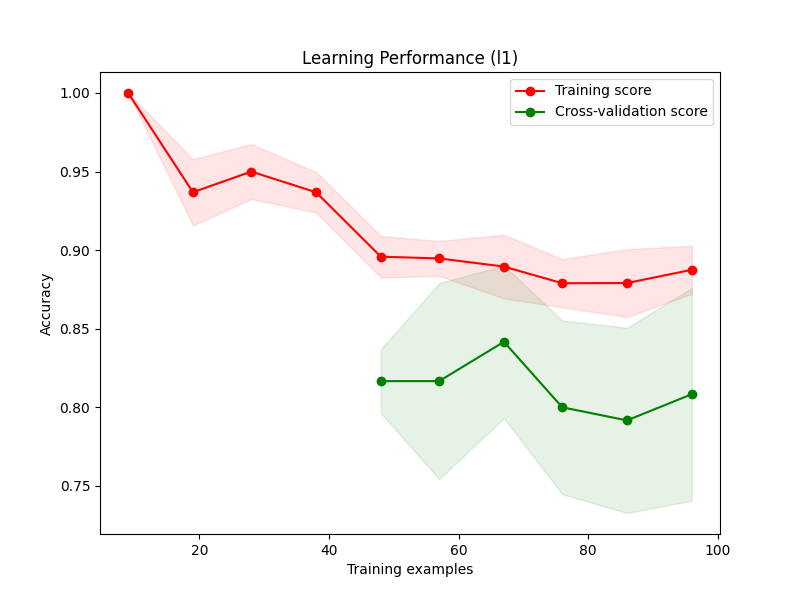
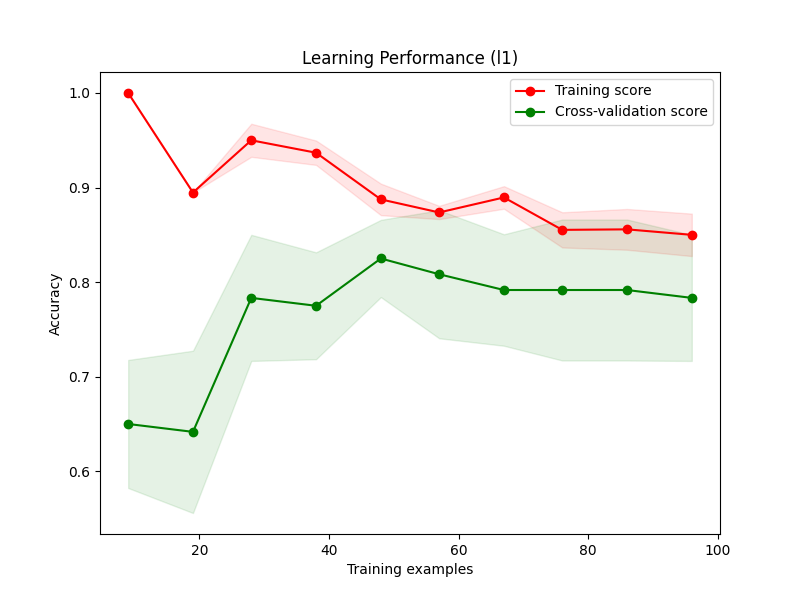
Refactor data preprocessing and model training; streamline pipelines, enhance feature handling, and implement learning curves

diff --git a/courswork/task3.py b/courswork/task3.py
@@ -1,101 +1,109 @@
 import pandas as pd
-import matplotlib.pyplot as plt
-from sklearn.ensemble import StackingClassifier
-from sklearn.metrics import classification_report, precision_recall_curve, auc
-from sklearn.model_selection import train_test_split, StratifiedKFold
-from sklearn.linear_model import LogisticRegression
-from sklearn.preprocessing import OneHotEncoder, StandardScaler
-from sklearn.neighbors import KNeighborsClassifier
-from sklearn.tree import DecisionTreeClassifier
-from sklearn.pipeline import make_pipeline
-from sklearn.compose import ColumnTransformer
 import numpy as np
+from sklearn.model_selection import train_test_split, StratifiedKFold, learning_curve
+from sklearn.pipeline import Pipeline
+from sklearn.compose import ColumnTransformer
+from sklearn.preprocessing import OneHotEncoder, StandardScaler
+from sklearn.impute import SimpleImputer
+from sklearn.ensemble import RandomForestClassifier
+from sklearn.metrics import classification_report, confusion_matrix, precision_recall_curve, auc
+import matplotlib.pyplot as plt
+import seaborn as sns
+import shap
 
-appointment = pd.read_csv("data/appointments/appointments.txt", sep=r"\s+")
+# Load data
+appointments = pd.read_csv("data/appointments/appointments.txt", sep=r"\s+")
 participants = pd.read_csv("data/appointments/participants.txt", sep=r"\s+")
 
-data = pd.merge(appointment, participants, on="participant")
-data = data[data["count"] > 5]
+# Merge datasets
+data = appointments.merge(participants, on="participant")
 
-categorical_cols = [
-    "participant",
-    "sms_received",
-    "day",
-    "month",
-    "weekday",
-    "sex",
-    "hipertension",
-    "diabetes",
-    "alcoholism",
-]
+# Filter patients with at least 5 appointments
+data = data[data["count"] >= 5]
 
-numerical_cols = ["advance", "age", "count"]
+# Target and features
+X = data.drop(columns=["status", "participant"])
+y = (data["status"] == "no-show").astype(int)
 
-categorical_transformer = OneHotEncoder(handle_unknown='ignore')
-numerical_transformer = StandardScaler()
+# Preprocessing pipeline
+numeric_features = ["age", "advance", "day", "month"]
+categorical_features = ["sms_received", "sex", "hipertension", "diabetes", "alcoholism", "weekday"]
+
+numeric_transformer = Pipeline(steps=[
+    ("imputer", SimpleImputer(strategy="mean")),
+    ("scaler", StandardScaler())
+])
+
+categorical_transformer = Pipeline(steps=[
+    ("imputer", SimpleImputer(strategy="most_frequent")),
+    ("onehot", OneHotEncoder(handle_unknown="ignore"))
+])
 
 preprocessor = ColumnTransformer(
     transformers=[
-        ("num", numerical_transformer, numerical_cols),
-        ("cat", categorical_transformer, categorical_cols),
-    ],
-    remainder="passthrough",
+        ("num", numeric_transformer, numeric_features),
+        ("cat", categorical_transformer, categorical_features)
+    ]
 )
 
-logistic_regression = make_pipeline(preprocessor, LogisticRegression(max_iter=10000, random_state=42))
-nearest_neighbors = make_pipeline(preprocessor, KNeighborsClassifier())
-decision_tree = make_pipeline(preprocessor, DecisionTreeClassifier())
+# Define model pipeline
+model = Pipeline(steps=[
+    ("preprocessor", preprocessor),
+    ("classifier", RandomForestClassifier(random_state=42, n_estimators=100, class_weight="balanced"))
+])
 
-stacking_model = StackingClassifier(
-    estimators=[
-        ('log_reg', logistic_regression),
-        ('knn', nearest_neighbors),
-        ('decision_tree', decision_tree)
-    ],
-    final_estimator=LogisticRegression(max_iter=10000, random_state=42),  # Meta-model
-    cv=5  
-)
+# Train-test split
+X_train, X_test, y_train, y_test = train_test_split(X, y, test_size=0.3, stratify=y, random_state=42)
 
-X = data.drop("status", axis=1)  # Replace 'status' with your target column
-y = data["status"]
+# Fit model
+model.fit(X_train, y_train)
 
-X_train, X_test, y_train, y_test = train_test_split(X, y, test_size=0.2, random_state=42, stratify=y)
+# Evaluate model
+y_pred = model.predict(X_test)
+print(classification_report(y_test, y_pred))
 
-stacking_model.fit(X_train, y_train)
+# Plot precision-recall curve
+y_proba = model.predict_proba(X_test)[:, 1]
+precision, recall, thresholds = precision_recall_curve(y_test, y_proba)
+pr_auc = auc(recall, precision)
 
-models = {'Logistic Regression': logistic_regression,
-          'Nearest Neighbors': nearest_neighbors,
-          'Decision Tree': decision_tree,
-          'Stacking Model': stacking_model}
-
-for name, model in models.items():
-    if name != 'Stacking Model':
-        model.fit(X_train, y_train)  # Fit base models independently
-    y_pred = model.predict(X_test)
-    print(f"Performance of {name}:")
-    print(classification_report(y_test, y_pred))
-    print("-" * 50)
-
-y_binary = y.map({'fullfilled': 1, 'no-show': 0})
-
-cv = StratifiedKFold(n_splits=5)
-precision_list = []
-recall_list = []
-for train_idx, test_idx in cv.split(X, y_binary):
-    X_train_fold, X_test_fold = X.iloc[train_idx], X.iloc[test_idx]
-    y_train_fold, y_test_fold = y_binary.iloc[train_idx], y_binary.iloc[test_idx]
-    stacking_model.fit(X_train_fold, y_train_fold)
-    y_pred_prob = stacking_model.predict_proba(X_test_fold)[:, 1]
-    precision, recall, _ = precision_recall_curve(y_test_fold, y_pred_prob, pos_label=1)
-    precision_list.append(precision)
-    recall_list.append(recall)
-
-plt.figure(figsize=(10, 6))
-for i in range(len(precision_list)):
-    plt.plot(recall_list[i], precision_list[i], lw=2, label=f'Fold {i+1}')
-plt.xlabel('Recall')
-plt.ylabel('Precision') 
+plt.figure()
+plt.plot(recall, precision, label=f"PR AUC = {pr_auc:.2f}")
+plt.xlabel("Recall")
+plt.ylabel("Precision")
+plt.title("Precision-Recall Curve")
 plt.legend()
-plt.title('Precision-Recall Curve for Stacking Model')
-plt.savefig("results/t3_precision_recall_curve.png")
-# plt.show()
+plt.show()
+
+# Plot confusion matrix
+cm = confusion_matrix(y_test, y_pred)
+sns.heatmap(cm, annot=True, fmt="d", cmap="Blues", xticklabels=["Fullfilled", "No-show"], yticklabels=["Fullfilled", "No-show"])
+plt.title("Confusion Matrix")
+plt.ylabel("Actual")
+plt.xlabel("Predicted")
+plt.show()
+
+# Feature importance using SHAP
+rf = model.named_steps["classifier"]
+X_test_transformed = model.named_steps["preprocessor"].transform(X_test)
+shap_explainer = shap.TreeExplainer(rf)
+shap_values = shap_explainer.shap_values(X_test_transformed)[1]
+
+shap.summary_plot(shap_values, X_test_transformed, feature_names=X_test.columns)
+
+# Learning curves
+train_sizes, train_scores, test_scores = learning_curve(
+    model, X, y, cv=StratifiedKFold(n_splits=5), scoring="f1", train_sizes=np.linspace(0.1, 1.0, 10)
+)
+
+train_mean = np.mean(train_scores, axis=1)
+test_mean = np.mean(test_scores, axis=1)
+
+plt.figure()
+plt.plot(train_sizes, train_mean, label="Training F1")
+plt.plot(train_sizes, test_mean, label="Validation F1")
+plt.xlabel("Training Set Size")
+plt.ylabel("F1 Score")
+plt.title("Learning Curves")
+plt.legend()
+plt.show()

diff --git a/courswork/task2.py b/courswork/task2.py
@@ -10,7 +10,7 @@ from sklearn.utils import resample
 from scipy.stats import sem
 import numpy as np
 import seaborn as sns
-from sklearn.impute import SimpleImputer
+from sklearn.impute import SimpleImputer, MissingIndicator
 from sklearn.pipeline import Pipeline
 from sklearn.compose import ColumnTransformer
 from sklearn.impute import MissingIndicator
@@ -197,13 +197,9 @@ X_train, X_test, y_train, y_test = train_test_split(
     X, y, test_size=0.2, random_state=42
 )
 
-missing_indicator = MissingIndicator(features="missing-only")
-imputer = SimpleImputer(strategy="most_frequent")
-
 preprocessor = ColumnTransformer(
     transformers=[
-        ("missing_indicator", missing_indicator, cdr_columns),
-        ("imputer", imputer, cdr_columns),
+        ("num", SimpleImputer(strategy="most_frequent"), cdr_columns),
     ],
     remainder="passthrough",
 )
@@ -238,8 +234,7 @@ def train_and_evaluate_logistic_regression(penalty):
 
 
 def plot_learning_performance(pipeline, X_train, y_train, penalty):
-    """ learning performance of the logistic regression without regularisation (mean + 95% CI)
- """
+    """learning performance of the logistic regression without regularisation (mean + 95% CI)"""
     train_sizes, train_scores, test_scores = learning_curve(
         pipeline, X_train, y_train, train_sizes=np.linspace(0.1, 1.0, 10), cv=5
     )
@@ -285,6 +280,8 @@ def plot_learning_performance(pipeline, X_train, y_train, penalty):
     plt.title(f"Learning Performance ({penalty})")
     plt.legend(loc="best")
     plt.savefig(f"results/t2_learning_performance_{penalty}.png")
-    plt.show()
+    # plt.show()
+
+
 train_and_evaluate_logistic_regression("l1")
 train_and_evaluate_logistic_regression("l2")
